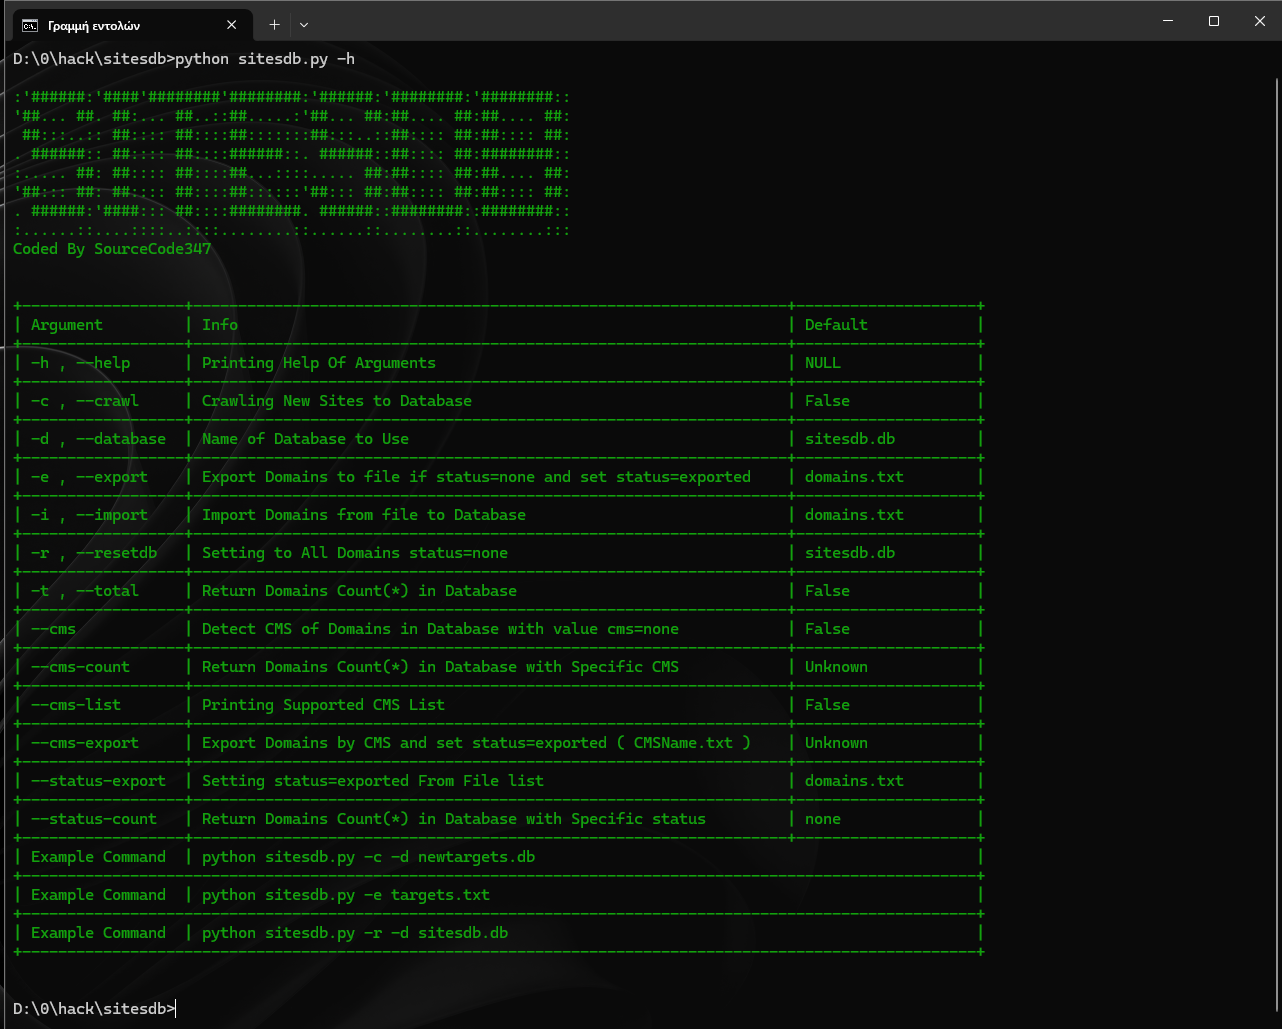
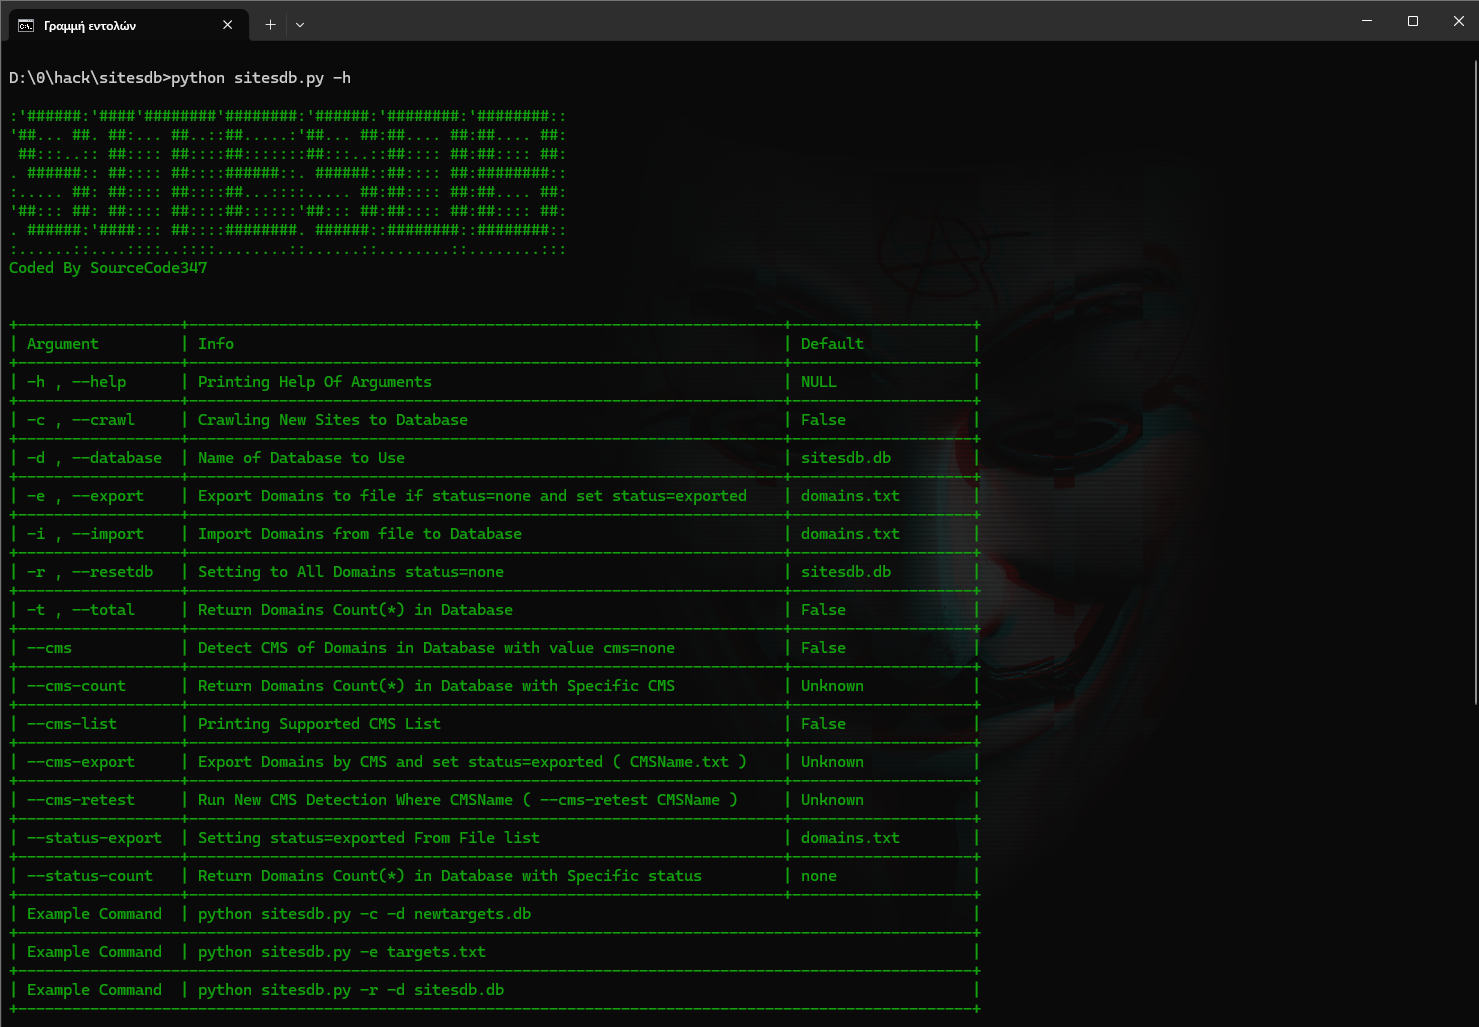
Add files via upload

diff --git a/sitesdb.py b/sitesdb.py
@@ -44,7 +44,7 @@ Coded By SourceCode347
 print(colored(logo , "green"))
 r = RandomWords()
 global sitesdatabase,crawl,exportfile,restdbbool,resetdbname,exportbool,importbool,importfile,totalbool,cmsbool, \
-cmscountbool,cmscountname,cmslistbool,exportcmsbool,exportcmsname,statusexportbool,statusexportfile,statuscountbool,statusvalue
+cmscountbool,cmscountname,cmslistbool,exportcmsbool,exportcmsname,statusexportbool,statusexportfile,statuscountbool,statusvalue,cmsretestbool,cmsretestname
 sitesdatabase="sitesdb.db"
 exportfile="domains.txt"
 crawl=False
@@ -62,6 +62,8 @@ statusexportbool="False"
 statusexportfile="domains.txt"
 statuscountbool=False
 statusvalue="none"
+cmsretestbool=False
+cmsretestname="Unknown"
 resetdbname=sitesdatabase
 importfile="domains.txt"
 help = '''
@@ -89,6 +91,8 @@ help = '''
 | --cms-list       | Printing Supported CMS List                                      | False              |
 +------------------+------------------------------------------------------------------+--------------------+
 | --cms-export     | Export Domains by CMS and set status=exported ( CMSName.txt )    | Unknown            |
++------------------+------------------------------------------------------------------+--------------------+
+| --cms-retest     | Run New CMS Detection Where CMSName ( --cms-retest CMSName )     | Unknown            |
 +------------------+------------------------------------------------------------------+--------------------+
 | --status-export  | Setting status=exported From File list                           | domains.txt        |
 +------------------+------------------------------------------------------------------+--------------------+
@@ -126,6 +130,9 @@ for arg in range(0,len(sys.argv)):
     if sys.argv[arg-1]=="--cms-export":
         exportcmsname=str(sys.argv[arg])
         exportcmsbool=True
+    if sys.argv[arg-1]=="--cms-retest":
+        cmsretestname=str(sys.argv[arg])
+        cmsretestbool=True
     if sys.argv[arg-1]=="--status-export":
         statusexportfile=str(sys.argv[arg])
         statusexportbool=True
@@ -208,11 +215,11 @@ def exportdomainsdb():
         cursor = conn.cursor()
         cursor.execute("SELECT domain FROM sites WHERE status = 'none' ORDER BY id DESC LIMIT 5000")
         return cursor.fetchall()
-def exportcmsdb():
+def exportcmsdb(cmsname):
     with sqlite3.connect(sitesdatabase) as conn:
         conn.row_factory = lambda cursor, row: row[0]
         cursor = conn.cursor()
-        cursor.execute("SELECT domain FROM sites WHERE cms = 'none' ORDER BY id DESC LIMIT 5000")
+        cursor.execute(f"SELECT domain FROM sites WHERE cms = '{cmsname}' ORDER BY id DESC LIMIT 5000")
         return cursor.fetchall()
 def exportdomainsbycmsdb(cms):
     with sqlite3.connect(sitesdatabase) as conn:
@@ -263,7 +270,72 @@ CMS_SIGNATURES = {
     ],
     "Blogger": [
         r'blogspot.com', r'blogger'
-    ]
+    ],
+    "Webflow": [
+        r'webflow.com', r'data-wf-', r'cdn.prod.website-files.com',
+        r'meta content="Webflow" name="generator',
+        r'<!-- This site was created in Webflow'
+    ],
+    "Weebly": [
+        r'weebly.com', r'weebly-site.com',
+        r'meta name="generator" content="Weebly'
+    ],
+    "TYPO3": [
+        r'typo3', r'/typo3temp/', r'/typo3conf/',
+        r'TYPO3', r'meta name="generator" content="TYPO3'
+    ],
+    "Bitrix": [
+        r'bitrix', r'/bitrix/', r'BX_',
+        r'Bitrix', r'meta name="generator" content="Bitrix'
+    ],
+    "OpenCart": [
+        r'opencart', r'/catalog/view/theme/', r'OpenCart'
+    ],
+    "BigCommerce": [
+        r'bigcommerce.com', r'static.bigcommerce.com',
+        r'BigCommerce'
+    ],
+    "WooCommerce": [
+        r'woocommerce', r'/wp-content/plugins/woocommerce/'
+    ],
+    "Craft_CMS": [
+        r'craftcms', r'Craft CMS', r'data-craft'
+    ],
+    "Umbraco": [
+        r'umbraco', r'/umbraco/', r'Umbraco'
+    ],
+    "Concrete_CMS": [
+        r'concrete', r'concrete5', r'Concrete CMS'
+    ],
+    "HubSpot": [
+        r'hubspot', r'hs-scripts.com', r'HubSpot'
+    ],
+    "GoDaddy": [
+        r'godaddysites.com', r'GoDaddy'
+    ],
+    "Duda": [
+        r'duda.co', r'Duda'
+    ],
+    "Tilda": [
+        r'tilda.ws', r'Tilda'
+    ],
+    "Strapi": [
+        r'strapi', r'Strapi'
+    ],
+    "Contentful": [
+        r'contentful', r'Contentful'
+    ],
+    "Sanity": [
+        r'sanity.io', r'Sanity'
+    ],
+    "Sitecore": [
+        r'sitecore', r'Sitecore'
+    ],
+    "Kentico": [r'kentico', r'Kentico'],
+    "Magnolia": [r'magnolia', r'Magnolia CMS'],
+    "Liferay": [r'liferay', r'Liferay'],
+    "Alfresco": [r'alfresco', r'Alfresco'],
+    "Backbone": [r'backbone', r'Backbone.js'],
 }
 def get_domain(url):
     if not url.startswith(('http://', 'https://')):
@@ -275,10 +347,10 @@ def detect_cms(url):
             'User-Agent': 'Mozilla/5.0 (Windows NT 10.0; Win64; x64) AppleWebKit/537.36 '
                           '(KHTML, like Gecko) Chrome/128.0 Safari/537.36'
         }
-        response = requests.get(url, headers=headers, timeout=15, allow_redirects=True)
+        print(Fore.CYAN + f"🔍 Analyzing: {url}")
+        response = requests.get(url, headers=headers, timeout=10, allow_redirects=True)
         content = response.text.lower()
         final_url = response.url
-        print(Fore.CYAN + f"🔍 Analyzing: {final_url}")
         print(Fore.CYAN + f"Status Code: {response.status_code}")
         detected = []
         for cms, signatures in CMS_SIGNATURES.items():
@@ -455,13 +527,26 @@ if __name__ == "__main__":
         batch_num = 0
         while True:
             batch_num += 1
-            domains = exportcmsdb()
+            domains = exportcmsdb('none')
             if not domains:
                 print(Fore.YELLOW + f"[!] No more domains with cms=none found.")
                 break
             for d in domains:
                 setcmsdb(d,detect_cms(get_domain(d)))
         print(Fore.GREEN + f"\n[+] Detecting completed! {total:,} CMS of domains Updated to {sitesdatabase}")
+    if cmsretestbool==True:
+        print(Fore.CYAN + f"📤 Starting ReDetecting CMS of domains with cms={cmsretestname} to {sitesdatabase}")   
+        total = 0
+        batch_num = 0
+        while True:
+            batch_num += 1
+            domains = exportcmsdb(cmsretestname)
+            if not domains:
+                print(Fore.YELLOW + f"[!] No more domains with cms={cmsretestname} found.")
+                break
+            for d in domains:
+                setcmsdb(d,detect_cms(get_domain(d)))
+        print(Fore.GREEN + f"\n[+] Detecting completed! {total:,} CMS={cmsretestname} of domains Updated to {sitesdatabase}")
     if cmscountbool==True:
         print(Fore.CYAN + f"📊 Total domains in DB : {sitesdatabase} with cms={cmscountname} : ", end="")
         with sqlite3.connect(sitesdatabase) as conn: